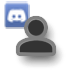
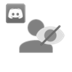
fixed long member names to show up to 7 chars
fixed long member names to show up to 7 chars

diff --git a/discordMemberStatus.html b/discordMemberStatus.html
@@ -36,7 +36,7 @@
                     }
                     if (payload != null && payload.hasOwnProperty('vKrabs_DiscordMemberName')) {
                       var vMemberName = payload['vKrabs_DiscordMemberName'];
-                      KrabsDiscordMemberStatus.SetTitle(context, vMemberName);
+                      KrabsDiscordMemberStatus.SetTitle(context, vMemberName.substring(0,7));
                     }
                     if (payload != null && payload.hasOwnProperty('vKrabs_DiscordMemberAvatar')) {
                       var vAvatarURL = payload['vKrabs_DiscordMemberAvatar'];
@@ -54,7 +54,7 @@
                         }
                         if (payload != null && payload.hasOwnProperty('vKrabs_DiscordMemberName')) {
                           var vMemberName = payload['vKrabs_DiscordMemberName'];
-                          KrabsDiscordMemberStatus.SetTitle(context, vMemberName);
+                          KrabsDiscordMemberStatus.SetTitle(context, vMemberName.substring(0,7));
                         }
                         if (payload != null && payload.hasOwnProperty('vKrabs_DiscordMemberAvatar')) {
                           var vAvatarURL = payload['vKrabs_DiscordMemberAvatar'];
@@ -100,7 +100,7 @@
                       //console.log("Outside loop: ", vDiscordURL, vMemberName, vUserStatus, vAvatarURL);
                       if (vUserStatus == "offline") {
                         console.warn("Offline action would be performed: ", vMemberName, vUserStatus)
-                        convertImgToBase64GrayScale(vAvatarURL, function(base64Img){
+                        convertImgToBase64GrayScale(vAvatarURL, vMemberName, function(base64Img){
                         var vAvatarBase64 = base64Img;
                         setImage(context, vAvatarBase64);
                       });
@@ -183,15 +183,16 @@
             };
 // End of let KrabsDiscordMemberStatus definition
 
-            function convertImgToBase64GrayScale(url, callback, outputFormat){
+            function convertImgToBase64GrayScale(url, vMemberName, callback, outputFormat){
               var canvas = document.createElement('CANVAS');
               var ctx = canvas.getContext('2d');
               var img = new Image;
+              var vText = vMemberName;
               img.crossOrigin = 'Anonymous';
               img.onload = function(){
                   canvas.height = img.height;
                   canvas.width = img.width;
-                  ctx.filter = 'grayscale(1)';
+                  ctx.filter = 'grayscale(1) brightness(.25)';
                     ctx.drawImage(img,0,0);
                     var dataURL = canvas.toDataURL(outputFormat || 'image/png');
                     callback.call(this, dataURL);
@@ -208,7 +209,7 @@
               img.onload = function(){
                   canvas.height = img.height;
                   canvas.width = img.width;
-                  ctx.filter = 'sepia(1)';
+                  ctx.filter = 'sepia(.95)';
                     ctx.drawImage(img,0,0);
                     var dataURL = canvas.toDataURL(outputFormat || 'image/png');
                     callback.call(this, dataURL);
